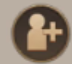
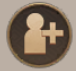
ci(python-autogame:好友管理): 好友管理
好友管理

diff --git a/python/autogame/src/service/onmyoji_service.py b/python/autogame/src/service/onmyoji_service.py
@@ -628,7 +628,7 @@ class OnmyojiService:
             image_service.touch(Onmyoji.comm_FH_LSYXBSXYH, interval=3)
 
     @staticmethod
-    def friends(game_task: []):
+    def friends_manage(game_task: []):
         # 账号信息
         game_account = GameAccount(game_task[2])
         logger.debug(game_account.game_name)
@@ -636,12 +636,12 @@ class OnmyojiService:
         is_friends = image_service.touch(Onmyoji.friends_HYTB)
         logger.debug("好友友情点收取")
         if is_friends:
-            logger.debug("点击好友-右侧添加")
-            image_service.touch(Onmyoji.friends_YCTJ)
+            logger.debug("点击好友-右侧好友")
+            image_service.touch(Onmyoji.friends_YCHY)
             logger.debug("点击左下好友")
             image_service.touch(Onmyoji.friends_ZXHY)
             logger.debug("点击一键收取")
-            is_collect = image_service.exists(Onmyoji.friends_YJSQ)
+            is_collect = image_service.exists(Onmyoji.friends_YJSQ,is_click=True)
             if is_collect:
                 logger.debug("获得奖励")
                 complex_service.get_reward(Onmyoji.friends_HDJL)
@@ -650,13 +650,13 @@ class OnmyojiService:
         logger.debug("吉闻祝福")
         image_service.touch(Onmyoji.friends_JW)
         logger.debug("一键祝福")
-        is_blessing = image_service.touch(Onmyoji.friends_YJZF)
+        is_blessing = image_service.exists(Onmyoji.friends_YJZF,is_click=True)
         if is_blessing:
             logger.debug("祝福按钮")
             image_service.touch(Onmyoji.friends_ZFAN)
             logger.debug("获得奖励")
             complex_service.get_reward(Onmyoji.friends_HDJL)
-        logger.debug("返回到好友添加界面")
+        logger.debug("返回到好友界面")
         image_service.touch(Onmyoji.comm_FH_YSJZDHBSCH)
         logger.debug("好友添加")
         is_friend_is_full = image_service.exists(Onmyoji.friends_HYYM)
@@ -700,36 +700,72 @@ class OnmyojiService:
                 complex_service.top_addition(Onmyoji.soul_BQ_JC, Onmyoji.soul_BQ_YHJC, Onmyoji.soul_BQ_JCG,
                                              Onmyoji.soul_BQ_JCG,
                                              1)
+                # 默认有协战式神
+                is_assist_shikigami = True
                 for i in range(15):
                     logger.debug("好友协战-御魂-挑战{}次", i + 1)
                     if i == 0:
                         logger.debug("好友协战-小号-协战-第一次")
                         logger.debug("解锁阵容")
+                        image_service.touch(Onmyoji.soul_BQ_JSZR)
                         logger.debug("挑战")
-                        logger.debug("点击预设")
-                        logger.debug("点击御魂")
-                        logger.debug("点击白蛋队伍")
-                        logger.debug("点击预设")
-                        logger.debug("点击御魂")
-                        logger.debug("点击协战队伍")
+                        image_service.touch(Onmyoji.soul_BQ_TZ)
+                        logger.debug("点击预设-御魂-白蛋队伍，清洗位置")
+                        image_service.touch(Onmyoji.soul_BQ_YS)
+                        image_service.touch(Onmyoji.soul_BQ_YSFZYH)
+                        image_service.touch(Onmyoji.soul_BQ_YSZRBD)
+                        image_service.touch(Onmyoji.soul_BQ_YSZRCZ)
+                        logger.debug("点击预设-御魂-协战队伍")
+                        image_service.touch(Onmyoji.soul_BQ_YS)
+                        image_service.touch(Onmyoji.soul_BQ_YSFZYH)
+                        image_service.touch(Onmyoji.soul_BQ_YSZRXZ)
+                        image_service.touch(Onmyoji.soul_BQ_YSZRCZ)
                         logger.debug("点击地板")
+                        image_service.touch(Onmyoji.soul_BQ_DJDB)
                         logger.debug("判断是否有协战式神")
-                        logger.debug("拖拽协战式神，更换白蛋")
-                        logger.debug("准备完成")
-                        logger.debug("点击宠物")
-                        logger.debug("点击喂食")
-                        logger.debug("获得奖励")
-                        logger.debug("退出挑战")
+                        is_assist_shikigami = image_service.exists(Onmyoji.soul_BQ_XZSS)
+                        if is_assist_shikigami:
+                            logger.debug("拖拽协战式神，更换白蛋")
+                            is_white_egg = image_service.exists(Onmyoji.soul_BQ_BD)
+                            if is_white_egg:
+                                airtest_service.swipe(is_assist_shikigami, is_white_egg)
+                            logger.debug("准备完成")
+                            image_service.touch(Onmyoji.soul_BQ_ZB)
+                            logger.debug("点击宠物")
+                            is_pets = image_service.touch(Onmyoji.soul_BQ_CW)
+                            if is_pets:
+                                logger.debug("点击喂食")
+                                image_service.touch(Onmyoji.soul_BQ_WS)
+                            logger.debug("等待战斗结果")
+                            complex_service.fight_end(Onmyoji.soul_BQ_ZDSL, Onmyoji.soul_BQ_ZDSB,
+                                                      Onmyoji.soul_BQ_ZCTZ,
+                                                      Onmyoji.soul_BQ_TCTZ, Onmyoji.soul_BQ_TZ, 60)
+                            if is_pets:
+                                logger.debug("发现宝藏")
+                                complex_service.get_reward(Onmyoji.soul_BQ_FXBZ)
+                        else:
+                            logger.debug("退出战斗")
+                            image_service.touch(Onmyoji.comm_FH_ZSJZKDZSHXJT)
+                            logger.debug("确定")
+                            image_service.touch(Onmyoji.soul_BQ_QD)
+                            logger.debug("战斗失败")
+                            image_service.touch(Onmyoji.soul_BQ_ZDSB)
                     else:
                         is_fight = image_service.touch(Onmyoji.soul_BQ_TZ)
                         if is_fight:
-                            logger.debug("好友协战-判断是否八岐大蛇-未挑战")
+                            logger.debug("好友协战-判断是否还有八岐大蛇-未挑战")
                             is_fight = image_service.touch(Onmyoji.soul_BQ_TZ, interval=2)
                             if is_fight:
                                 logger.debug("好友协战-再次点击挑战")
                         logger.debug("好友协战-等待战斗结果")
-                        complex_service.fight_end(Onmyoji.soul_BQ_ZDSL, Onmyoji.soul_BQ_ZDSB, Onmyoji.soul_BQ_ZCTZ,
-                                                  Onmyoji.soul_BQ_TCTZ, Onmyoji.soul_BQ_TZ, 60)
+                        is_result = complex_service.fight_end(Onmyoji.soul_BQ_ZDSL, Onmyoji.soul_BQ_ZDSB,
+                                                              Onmyoji.soul_BQ_ZCTZ,
+                                                              Onmyoji.soul_BQ_TCTZ, Onmyoji.soul_BQ_TZ, 60)
+                        if not is_result:
+                            logger.debug("战斗失败，阵容有问题，结束循环")
+                    if not is_assist_shikigami:
+                        logger.debug("无协战式神，结束循环")
+                        break
                 time.sleep(3)
                 logger.debug("好友协战-关闭御魂加成")
                 complex_service.top_addition(Onmyoji.soul_BQ_JC, Onmyoji.soul_BQ_YHJC, Onmyoji.soul_BQ_JCG,

diff --git a/python/autogame/src/model/enum.py b/python/autogame/src/model/enum.py
@@ -99,27 +99,45 @@ class Onmyoji:
     login_ZXJS = r"登录\注销角色"
 
     soul_BQ_GBJC = r"探索\御魂\八岐大蛇\关闭加成"
-    soul_BQ_YHJC = r"探索\御魂\八岐大蛇\御魂加成"
+    soul_BQ_ZB = r"探索\御魂\八岐大蛇\准备"
     soul_BQ_JC = r"探索\御魂\八岐大蛇\加成"
     soul_BQ_JCG = r"探索\御魂\八岐大蛇\加成关"
-    soul_BQ_KQJC = r"探索\御魂\八岐大蛇\开启加成"
-    soul_BQ_XZ = r"探索\御魂\八岐大蛇\选择八岐大蛇"
+    soul_BQ_JCK = r"探索\御魂\八岐大蛇\加成开"
+    soul_BQ_XZSS = r"探索\御魂\八岐大蛇\协战式神"
+    soul_BQ_FXBZ = r"探索\御魂\八岐大蛇\发现宝藏"
+    soul_BQ_WS = r"探索\御魂\八岐大蛇\喂食"
+    soul_BQ_WSXSJ = r"探索\御魂\八岐大蛇\喂食小三角"
+    soul_BQ_CW = r"探索\御魂\八岐大蛇\宠物"
+    soul_BQ_CWJL = r"探索\御魂\八岐大蛇\宠物奖励"
     soul_BQ_CZ = r"探索\御魂\八岐大蛇\层字"
-    soul_BQ_HELEVEN = r"探索\御魂\八岐大蛇\魂十一"
-    soul_BQ_HONE = r"探索\御魂\八岐大蛇\魂一"
-    soul_BQ_HTEN = r"探索\御魂\八岐大蛇\魂十"
+    soul_BQ_KQJC = r"探索\御魂\八岐大蛇\开启加成"
+    soul_BQ_YHJC = r"探索\御魂\八岐大蛇\御魂加成"
+    soul_BQ_ZDSB = r"探索\御魂\八岐大蛇\战斗失败"
+    soul_BQ_TZ = r"探索\御魂\八岐大蛇\挑战"
+    soul_BQ_DJDB = r"探索\御魂\八岐大蛇\点击地板"
+    soul_BQ_BD = r"探索\御魂\八岐大蛇\白蛋"
+    soul_BQ_ZD = r"探索\御魂\八岐大蛇\自动"
+    soul_BQ_HDJL = r"探索\御魂\八岐大蛇\获得奖励"
     soul_BQ_JSTXDH = r"探索\御魂\八岐大蛇\角色头像大号"
     soul_BQ_JSTXDS = r"探索\御魂\八岐大蛇\角色头像打手"
     souL_BQ_JSTXXH = r"探索\御魂\八岐大蛇\角色头像小号"
+    soul_BQ_JSZR = r"探索\御魂\八岐大蛇\解锁阵容"
     soul_BQ_TCTZ = r"探索\御魂\八岐大蛇\退出挑战"
+    soul_BQ_XZ = r"探索\御魂\八岐大蛇\选择八岐大蛇"
+    soul_BQ_SDZR = r"探索\御魂\八岐大蛇\锁定阵容"
+    soul_BQ_YS = r"探索\御魂\八岐大蛇\预设"
+    soul_BQ_YSFZYH = r"探索\御魂\八岐大蛇\预设分组御魂"
+    soul_BQ_YSZRCZ = r"探索\御魂\八岐大蛇\预设阵容出战"
+    soul_BQ_YSZRXZ = r"探索\御魂\八岐大蛇\预设阵容协战"
+    soul_BQ_YSZRBD = r"探索\御魂\八岐大蛇\预设阵容白蛋"
+    soul_BQ_HELEVEN = r"探索\御魂\八岐大蛇\魂十一"
+    soul_BQ_HONE = r"探索\御魂\八岐大蛇\魂一"
+    soul_BQ_HTEN = r"探索\御魂\八岐大蛇\魂十"
     soul_BQ_ZDSL = r"探索\御魂\八岐大蛇\战斗胜利"
     soul_BQ_ZCTZ = r"探索\御魂\八岐大蛇\再次挑战"
-    soul_BQ_TZ = r"探索\御魂\八岐大蛇\挑战"
-    soul_BQ_WS = r"探索\御魂\八岐大蛇\喂食"
-    soul_BQ_WSXSJ = r"探索\御魂\八岐大蛇\喂食小三角"
     soul_BQ_YHTB = r"探索\御魂\御魂图标"
-    soul_BQ_ZD = r"探索\御魂\八岐大蛇\自动"
-    soul_BQ_ZDSB = r"探索\御魂\八岐大蛇\战斗失败"
+    soul_BQ_QD = r"探索\御魂\八岐大蛇\确定"
+
 
     user_SYTX = r"用户\首页头像"
     user_XZZH = r"用户\选择账号"
@@ -188,6 +206,7 @@ class Onmyoji:
     friends_HDJL = r"好友\获得奖励"
     friends_SQ = r"好友\申请"
     friends_ZFAN = r"好友\祝福按钮"
+
 
 class Cvstrategy:
     # 图像文字识别类型

diff --git a/python/autogame/src/test/test_onmyoji_service.py b/python/autogame/src/test/test_onmyoji_service.py
@@ -100,7 +100,7 @@ class TestOnmyojiService(TestCase):
             game_account = select_game_account(test_name)
             game_project = GameProject()
             game_task = [game_projects, game_projects_relation, game_account, game_project]
-            logger.debug("开始测试-逢魔之时{}",test_name)
+            logger.debug("开始测试-逢魔之时{}", test_name)
             # 当前状态初始化
             OnmyojiService.initialization(game_task)
             # 执行测试任务
@@ -127,4 +127,26 @@ class TestOnmyojiService(TestCase):
             OnmyojiService.initialization(game_task)
             # 执行测试任务
             OnmyojiService.ghost_king(game_task)
+            logger.debug("{}测试完成", test_name)
+
+    def test_friends_manage(self):
+        logger.debug("好友管理")
+        # test_names = ['2', '3', '4', '5']
+        test_names = ['2']
+        test_devices = '0'
+        # 初始化设备信息
+        AirtestService.auto_setup(test_devices)
+        for i in range(len(test_names)):
+            test_name = test_names[i]
+            # 初始化测试任务信息
+            game_projects = GameProjects()
+            game_projects_relation = GameProjectsRelation()
+            game_account = select_game_account(test_name)
+            game_project = GameProject()
+            game_task = [game_projects, game_projects_relation, game_account, game_project]
+            logger.debug("开始测试-好友管理")
+            # 当前状态初始化
+            OnmyojiService.initialization(game_task)
+            # 执行测试任务
+            OnmyojiService.friends_manage(game_task)
             logger.debug("{}测试完成", test_name)

diff --git a/python/autogame/src/controller/onmyoji_controller.py b/python/autogame/src/controller/onmyoji_controller.py
@@ -52,7 +52,7 @@ def task(game_type: str, game_round: str, game_is_email: str) -> None:
                 elif game_project.project_name in ["个人突破"]:
                     OnmyojiService.border_fight(game_task[j])
                 elif game_project.project_name in ["好友管理"]:
-                    OnmyojiService.friends(game_task[j])
+                    OnmyojiService.friends_manage(game_task[j])
             else:
                 logger.debug("当前状态初始化失败{}", game_account.game_name)
         if game_is_email:
